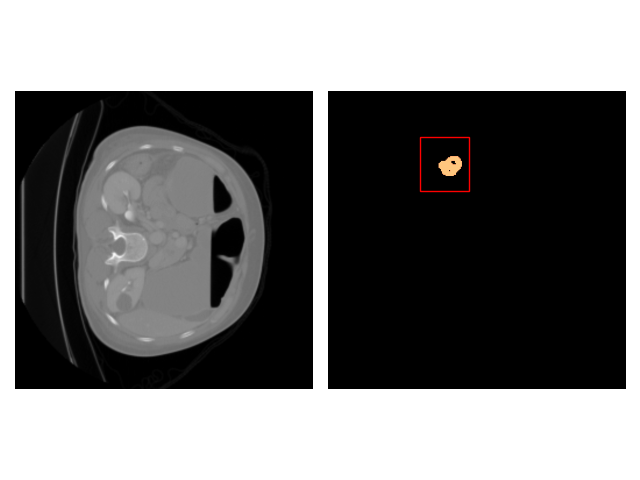
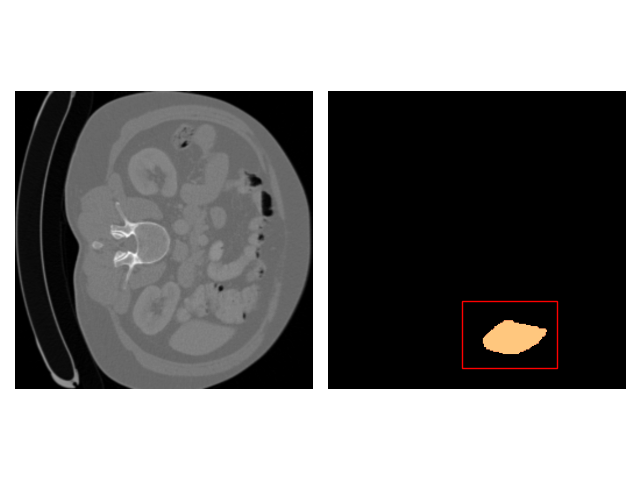
possibility to choose only one organ

Changed region(s): [[0.0, 0.1875, 0.5, 0.8125], [0.7188, 0.625, 0.875, 0.7812], [0.6562, 0.2812, 0.75, 0.4062]]

diff --git a/SAM-inference.py b/SAM-inference.py
@@ -67,7 +67,7 @@ def getDataPaths(args):
             dir_path = os.path.join(args.base_dir, f'{dataset}_{data_type}')
             
             # Find images and labels in the directory
-            files = sorted(glob.glob(os.path.join(dir_path, "*.nii.gz")))
+            files = sorted(glob.glob(os.path.join(dir_path, args.organ+"*.nii.gz")))
             
             # Store the image and label paths in the dictionary
             data_paths[f'{dataset}_{data_type.split("_")[1]}'] = files
@@ -164,7 +164,14 @@ def makePredictions(test_loader):
 
 def main():
     parser = argparse.ArgumentParser()
-    parser.add_argument('--base_dir', default = './content', help='The path to where the 2d slices are stored')
+    parser.add_argument('--base_dir',
+                        default = './content',
+                        help='The path to where the 2d slices are stored'
+                        )
+    parser.add_argument('--organ',
+                        default='',
+                        help='For which organ the inference should be made [liver,lung,pancreas,hepaticvessel,spleen,colon]. Default is all organs.'
+                        )
     args = parser.parse_args()
 
     data_paths = getDataPaths(args)
